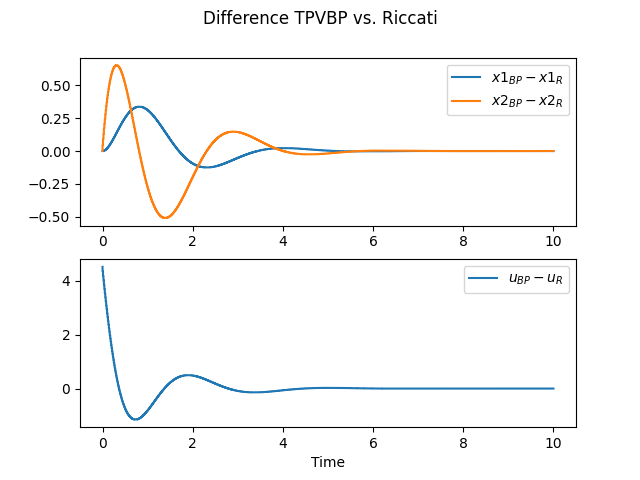
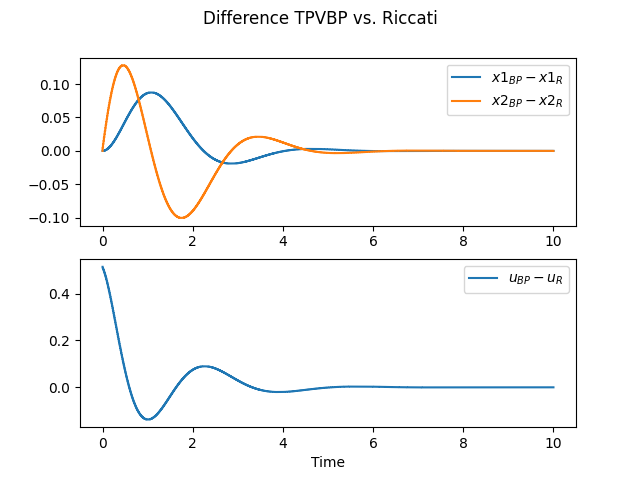
both runge-kutta and euler work equally good

diff --git a/HW1/Problem 3/HW1_3_euler.py b/HW1/Problem 3/HW1_3_euler.py
@@ -39,7 +39,7 @@ p3[n-1] = pT[2]
 i = n-2
 print("Computing Riccati.")
 while i >= 0:
-    p1[i] = p1[i+1] + h*(10*p2[i+1]**2 + 3.2*p3[i+1] - 2)
+    p1[i] = p1[i+1] + h*(10*p2[i+1]**2 + 3.2*p2[i+1] - 2)
     p2[i] = p2[i+1] + h*(10*p2[i+1]*p3[i+1] - p1[i+1] + 0.4*p2[i+1] + 1.6*p3[i+1])
     p3[i] = p3[i+1] + h*(10*p3[i+1]**2 + 0.8*p3[i+1] - 2*p2[i+1] - 0.01)
     i = i -1
@@ -73,16 +73,20 @@ ax2.legend()
 ax2.set_xlabel('Time')
 fig.suptitle('Riccati response')
 
-
 #Import results from Problem 2
-'''
+res_P2 = np.genfromtxt("ME455_ActiveLearning/HW1/results_P2.csv", delimiter=',')
+x1BP = res_P2[:,0]
+x2BP = res_P2[:,1]
+uBP = res_P2[:,2]
+
+#Plot difference
 fig2, (ax1, ax2) = plt.subplots(2, 1)
-ax1.step(time_discr, x1 - x1BP, label=r'$x1_{BP} - x1_{R}$')
-ax1.step(time_discr, x2 - x2BP, label=r'$x2_{BP} - x2_{R}$')
-ax2.step(time_discr, u - uBP, label=r'$u_{BP} - u_{R}$')
+ax1.step(time_discr, x1BP - x1, label=r'$x1_{BP} - x1_{R}$')
+ax1.step(time_discr, x2BP - x2, label=r'$x2_{BP} - x2_{R}$')
+ax2.step(time_discr, uBP - u, label=r'$u_{BP} - u_{R}$')
 ax1.legend()
 ax2.legend()
 ax2.set_xlabel('Time')
-fig.suptitle('Difference TPVBP vs. Riccati')
-'''
+fig2.suptitle('Difference TPVBP vs. Riccati')
+
 plt.show()

diff --git a/HW1/Problem 3/HW1_3.py b/HW1/Problem 3/HW1_3.py
@@ -21,7 +21,7 @@ x0 = np.array([[10],[0]])
 # c' = 10c^2 + 0.8c -2b -0.01
 
 def F(t, c):
-    return np.array([10*c[1]**2 + 3.2*c[2] - 2,
+    return np.array([10*c[1]**2 + 3.2*c[1] - 2,
                     10*c[1]*c[2] - c[0] + 0.4*c[1] + 1.6*c[2],
                     10*c[2]**2 + 0.8*c[2] - 2*c[1] - 0.01])
 
